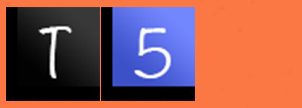
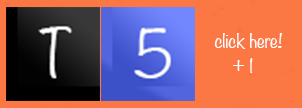
Finnal for week 1

Changed region(s): [[0.3278, 0.0556, 0.6556, 0.9444], [0.6854, 0.3056, 0.9536, 0.4444], [0.7748, 0.5278, 0.8344, 0.6667]]

diff --git a/Week 1/Crud/browse.html b/Week 1/Crud/browse.html
@@ -16,13 +16,9 @@
 			<a href="addemployee.html"</a>
 			<img src="images/cta.png" href="addemployee.html" alt="some_text"></a>
 
-			<p> A list of all my Arrivals, Departures, and In House Guest's.</p>
-			<a href="browse.html"</a>
-			<img src="images/browse.png" href="addEmployee.html" alt="some_text"></a>
-			<img src="images/arrivals.png" href="addEmployee.html" alt="some_text"></a>
-			<img src="images/check_out.png" href="addEmployee.html" alt="some_text"></a>
-			<img src="images/in_house.png" href="addEmployee.html" alt="some_text"></a>
-			<img src="images/black_list.png" href="addEmployee.html" alt="some_text"></a>
+			<p> This page is under construction.</p>
+			<a href="index.html"</a>
+			<img src="images/back.png" href="index.html" alt="some_text"></a>
 
 		</body>
 </html>

diff --git a/Week 1/Crud/js/main.js b/Week 1/Crud/js/main.js
@@ -108,6 +108,7 @@ window.addEventListener("DOMContentLoaded", function () {
 		 	
 		for(var i=0, j=localStorage.length; i<j; i++){
 			var makeli = document.createElement("li");
+			var linksLi = document.createElement("li");
 			makeList.appendChild(makeli);
 			var key = localStorage.key(i);
 			var value = localStorage.getItem(key);
@@ -118,7 +119,6 @@ window.addEventListener("DOMContentLoaded", function () {
 		getImage(obj.group[1], makeSubList);
 		for(var n in obj){
 			var makeSubli = document.createElement("li");
-			var linksLi = document.createElement("li");
 			makeSubList.appendChild(makeSubli);
 			var optSubText = obj[n][0] +" "+ obj[n][1];
 			makeSubli.innerHTML = optSubText;

diff --git a/Week 1/Crud/css/style.css b/Week 1/Crud/css/style.css
@@ -6,21 +6,23 @@
  */
  
 body {
-	background-color: white
-	
+	background-color: #ffffe0
+	text-align:center
+		
 }
 
 form {
-	background-color: #c6c4bd
+	background-color: #ffaa89
 	
 	
 }
 
 header {
-	background-color: #dbdad1;
+	background-color: #fb7743;
 	padding-left: 5px;
 	padding-right: 5px;
 	border-style: double;
+	text-align:center
 }
 
 h1 {
@@ -33,6 +35,6 @@ h2 {
 
 
 
-button {
-	
+p {
+	text-align:center	
 }
